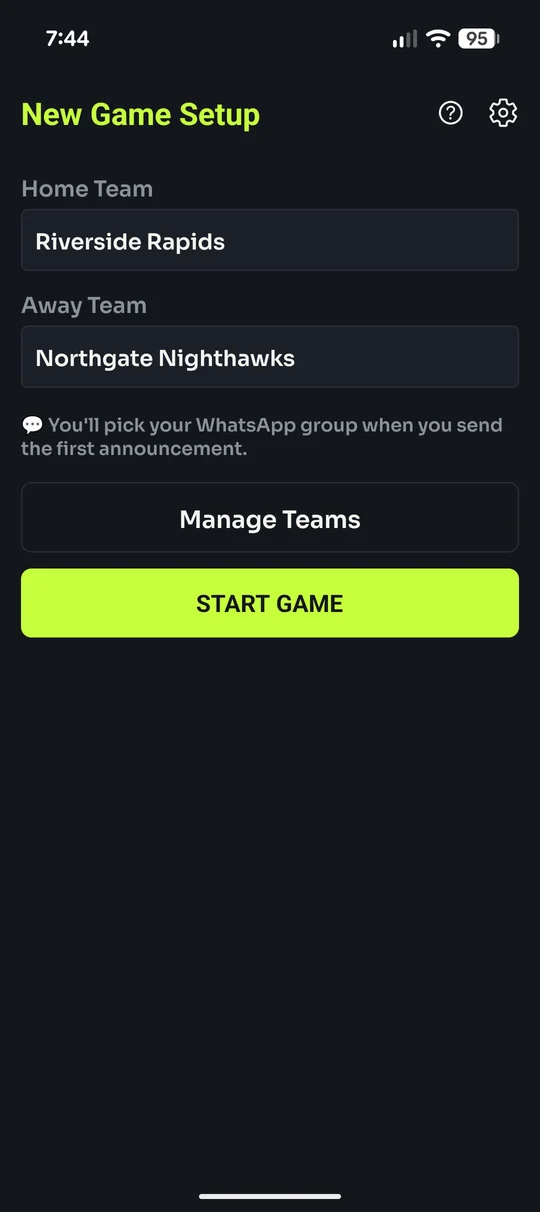
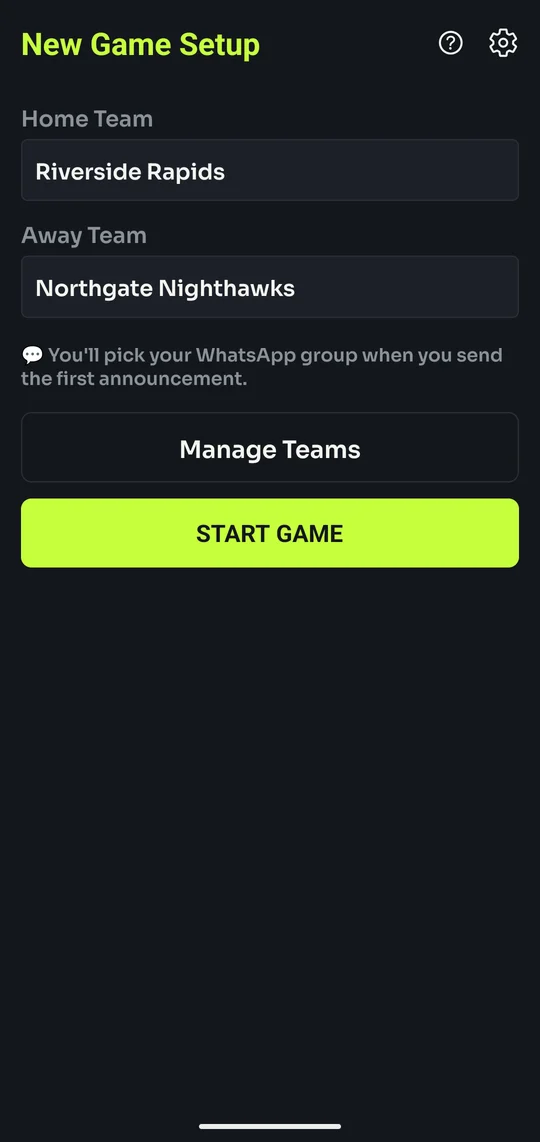
Drop the phone status bar from every screenshot on the page
The long play builder capture has no status bar, and the chat feed had
already been cropped without one, so the reel mixed shots with and without
it. Rather than fake a bar on the capture, all the web images now drop the
140px band above the app's own content, which also reads as more deliberate.

Beat 3 switches to the penalty shot taken from the top of the screen: the
previous one was scrolled, so it cut off the type grid and hid the fact that
PENALTY was the selected event.

Heights, the reel window's aspect ratio and the scroll distance are all
updated to match. Full-resolution originals in the app repo keep their status
bars.

diff --git a/rink-cast.html b/rink-cast.html
@@ -72,11 +72,11 @@
         <div class="reel" role="img" aria-label="Rink Cast in action: pick your two teams, tap what happened, log a penalty with the player, the announcement lands in the team chat, and a full recap is sent at the end of the game.">
           <div class="phone">
             <div class="reel-screen">
-              <img class="reel-frame" src="screenshots/10-game-setup.webp" width="540" height="1212" alt="" />
-              <img class="reel-frame reel-frame--scroll" src="screenshots/12b-playbuilder-full.webp" width="540" height="2061" alt="" />
-              <img class="reel-frame" src="screenshots/15-penalty-player.webp" width="540" height="1212" alt="" />
-              <img class="reel-frame" src="screenshots/21-whatsapp-feed.webp" width="540" height="1212" alt="" />
-              <img class="reel-frame" src="screenshots/20-final-summary.webp" width="540" height="740" alt="" />
+              <img class="reel-frame" src="screenshots/10-game-setup.webp" width="540" height="1142" alt="" />
+              <img class="reel-frame reel-frame--scroll" src="screenshots/12b-playbuilder-full.webp" width="540" height="1991" alt="" />
+              <img class="reel-frame" src="screenshots/14-penalty-types.webp" width="540" height="1142" alt="" />
+              <img class="reel-frame" src="screenshots/21-whatsapp-feed.webp" width="540" height="1142" alt="" />
+              <img class="reel-frame" src="screenshots/20-final-summary.webp" width="540" height="670" alt="" />
             </div>
           </div>
           <ol class="reel-captions" aria-hidden="true">
@@ -98,21 +98,21 @@
       <ol class="steps">
         <li class="step">
           <div class="phone">
-            <img src="screenshots/06-roster-editor.webp" width="540" height="1212" loading="lazy" alt="Roster editor for the Riverside Rapids, listing players by jersey number and name." />
+            <img src="screenshots/06-roster-editor.webp" width="540" height="1142" loading="lazy" alt="Roster editor for the Riverside Rapids, listing players by jersey number and name." />
           </div>
           <h3><span class="step-number">1</span>Build your roster once</h3>
           <p>Add each team's players with their jersey numbers. Rink Cast keeps them for every game after.</p>
         </li>
         <li class="step">
           <div class="phone">
-            <img src="screenshots/13-goal-with-assists.webp" width="540" height="1212" loading="lazy" alt="A goal being recorded, with the scorer and two assisting players selected." />
+            <img src="screenshots/13-goal-with-assists.webp" width="540" height="1142" loading="lazy" alt="A goal being recorded, with the scorer and two assisting players selected." />
           </div>
           <h3><span class="step-number">2</span>Call it live</h3>
           <p>Tap what happened, then the team and player. The announcement is written for you — check the preview and tap Send.</p>
         </li>
         <li class="step">
           <div class="phone">
-            <img src="screenshots/21-whatsapp-feed.webp" width="540" height="1212" loading="lazy" alt="A team group chat showing Rink Cast announcements for game time, a goal with assists, a penalty and an icing call." />
+            <img src="screenshots/21-whatsapp-feed.webp" width="540" height="1142" loading="lazy" alt="A team group chat showing Rink Cast announcements for game time, a goal with assists, a penalty and an icing call." />
           </div>
           <h3><span class="step-number">3</span>Everyone knows instantly</h3>
           <p>Pick your team's chat and it's posted. Families who couldn't make it follow along play by play.</p>
@@ -161,7 +161,7 @@
     <section>
       <div class="split">
         <div class="phone">
-          <img src="screenshots/20-final-summary.webp" width="540" height="740" loading="lazy" alt="Final score summary: Riverside Rapids 1, Northgate Nighthawks 0, with the goal and penalty listed and a Send Summary button." />
+          <img src="screenshots/20-final-summary.webp" width="540" height="670" loading="lazy" alt="Final score summary: Riverside Rapids 1, Northgate Nighthawks 0, with the goal and penalty listed and a Send Summary button." />
         </div>
         <div>
           <h2>A full recap when the horn goes</h2>

diff --git a/promo.css b/promo.css
@@ -190,7 +190,7 @@ h1 .accent { color: var(--accent); }
 
 .reel-screen {
   position: relative;
-  aspect-ratio: 540 / 1212;
+  aspect-ratio: 540 / 1142;
   border-radius: 28px;
   overflow: hidden;
   /* Shows below the shorter final-summary screenshot, matching the app's own background. */
@@ -404,8 +404,8 @@ h1 .accent { color: var(--accent); }
 @keyframes reel-scroll {
   0% { transform: translateY(0); }
   20.0% { transform: translateY(0); }
-  46.667% { transform: translateY(-41.194%); }
-  52.5% { transform: translateY(-41.194%); }
+  46.667% { transform: translateY(-42.642%); }
+  52.5% { transform: translateY(-42.642%); }
   53.056% { transform: translateY(0); }
   100% { transform: translateY(0); }
 }
